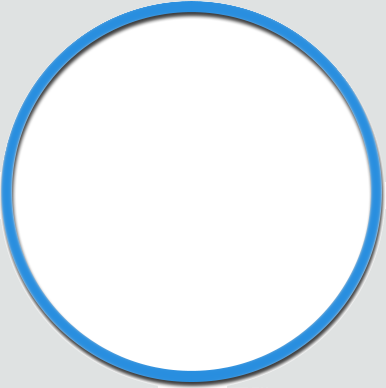
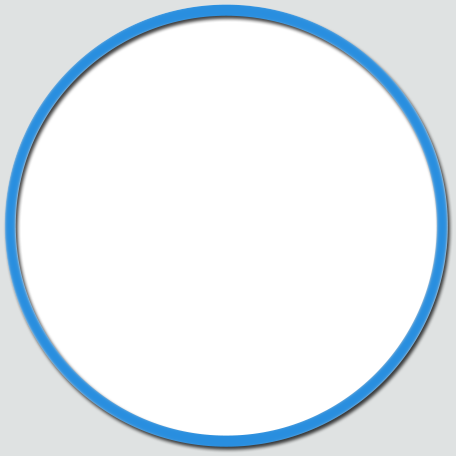
Map shadow is now scaling properly

Changed region(s): [[0.0, 0.0, 0.9948, 1.0]]

diff --git a/Web/css/style.css b/Web/css/style.css
@@ -169,11 +169,10 @@
     -webkit-transform-origin: center top; /* Safari and Chrome */
 }
 .main-map-shadow{
-    width: 480px;
+    width: 380px;
     height: 70px;
     background: url(../img/map_shadow.png);
     position: absolute;
-    left: -50px;
     top: 380px;
     background-size: 100% 100%;
 }
@@ -189,14 +188,18 @@
 
 @keyframes bouncemap
 {
-    from {top: 0px; transform: scale3d(1,1,0)}
-    to {top: 0px; transform: scale3d(0.8,0.8,0)}
+    from {
+        transform: scale3d(1,1,0);
+    }
+    to {
+        transform: scale3d(0.8,0.8,0);
+    }
 }
 
 @-webkit-keyframes bouncemap /* Safari and Chrome */
 {
-    from {top: 0px; -webkit-transform: scale3d(1,1,0)}
-    to {top: 0px; -webkit-transform: scale3d(0.8,0.8,0)}
+    from {-webkit-transform: scale3d(1,1,0)}
+    to {-webkit-transform: scale3d(0.8,0.8,0)}
 }
 
 @keyframes bounceshadow
@@ -338,10 +341,9 @@
         height: 300px;
     }
     .main-map-shadow{
-        width: 380px;
+        width: 300px;
         height: 55px;
         top: 300px;
-        left: -40px;
     }
 }
 
@@ -351,10 +353,9 @@
         height: 250px;
     }
     .main-map-shadow{
-        width: 315px;
+        width: 250px;
         height: 45px;
         top: 250px;
-        left: -33px;
     }
     .main-h1{
         padding-top: 0.5em;
